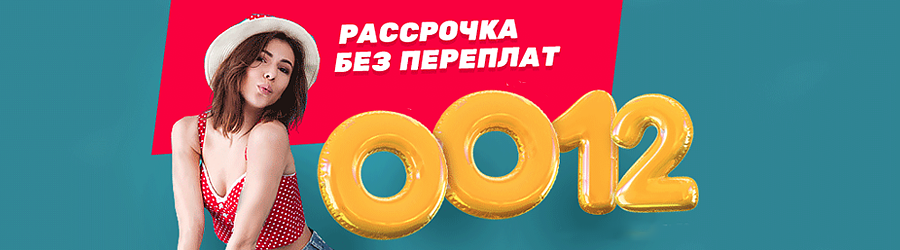
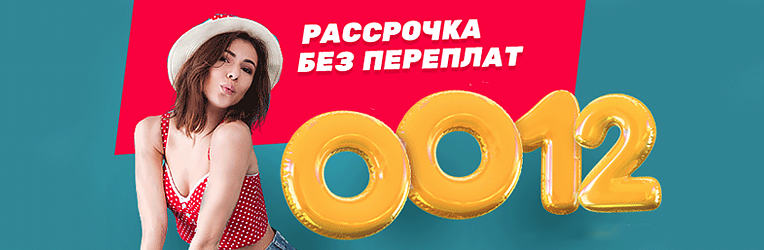
1

diff --git a/home/src/App.vue b/home/src/App.vue
@@ -677,7 +677,7 @@ border: none;
 .main-slider {
 
   width: 100%;
-  height: 100px!important;
+  height: 120px!important;
 
 
 }
